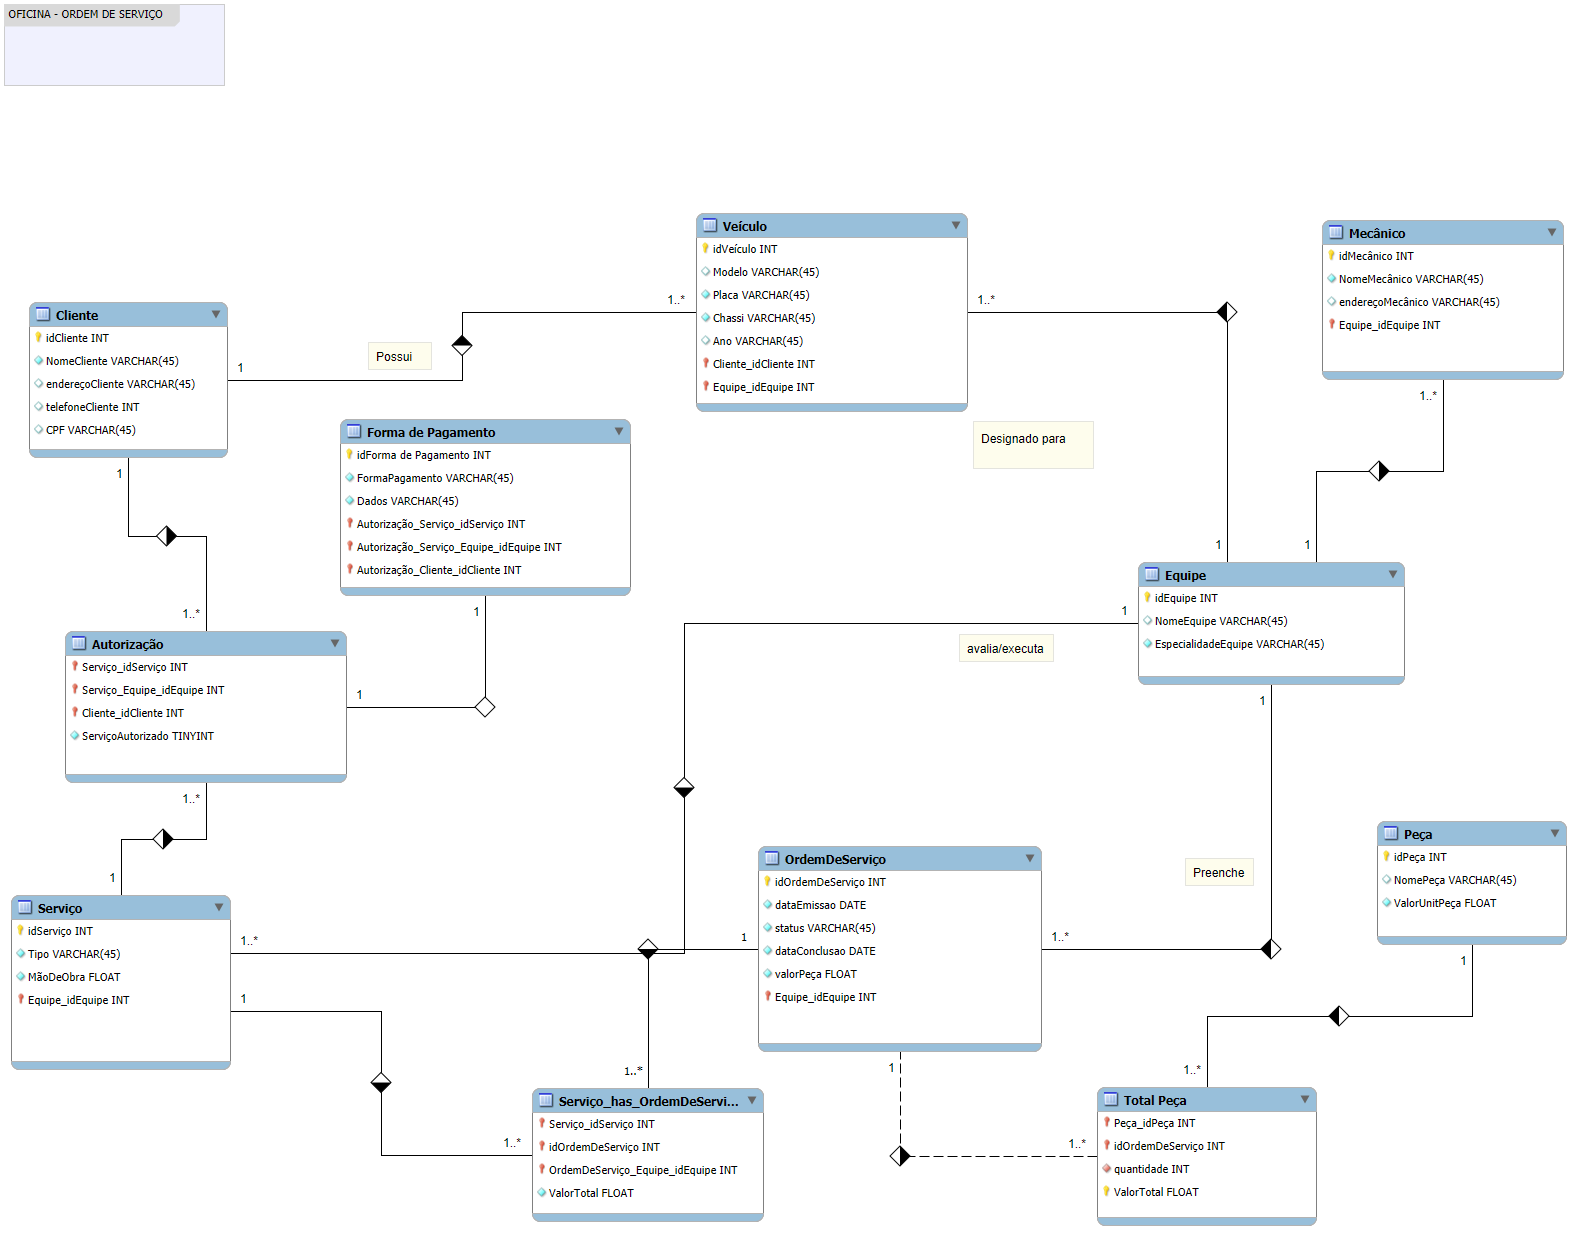
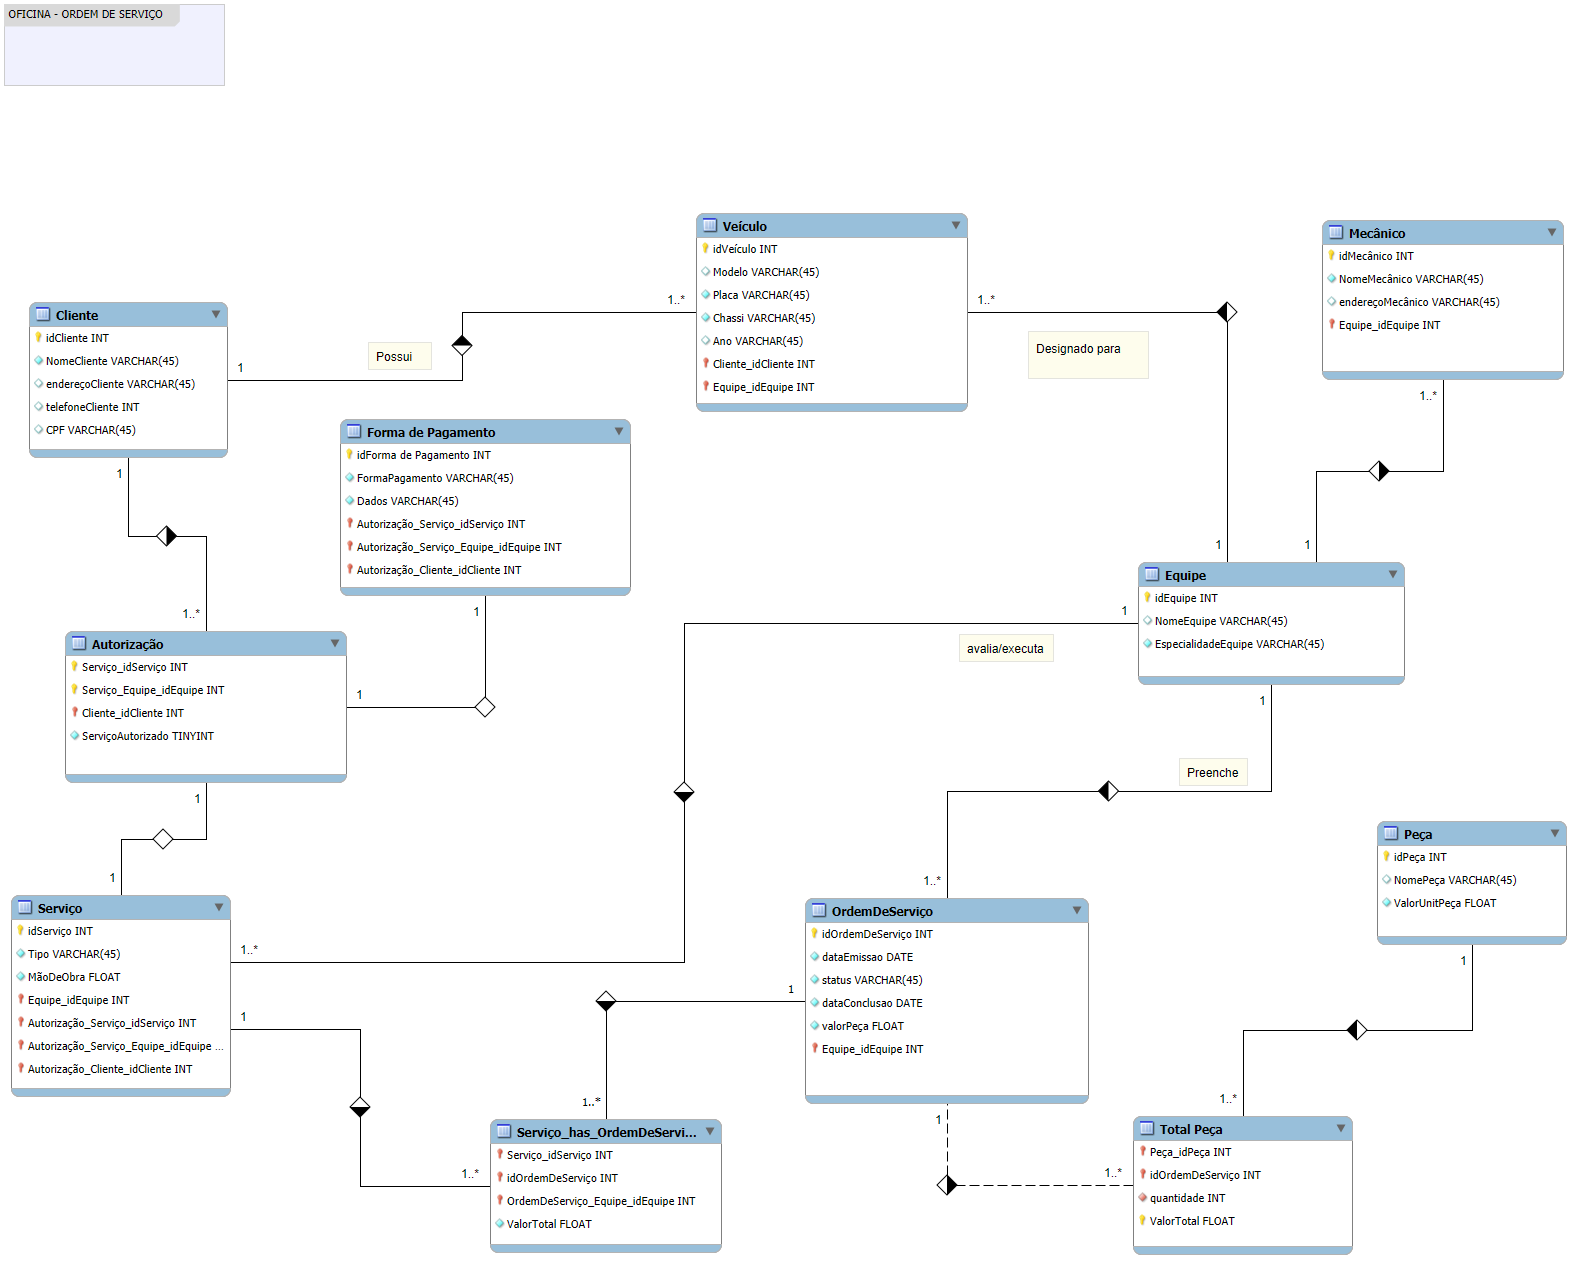
Sobrescrevendo o readme e o arquivo PNG com novos dados

diff --git a/construcao_BD/desafio_BD/readme.md b/construcao_BD/desafio_BD/readme.md
@@ -1,0 +1,12 @@
+### Construção e Refinamento de um Projeto Banco de Dados - ORDEM DE SERVIÇO (OFICINA)
+
+#### De acordo com as instruções da aula foram criadas algumas entidades e outras foram criadas para o desafio e refinamento:
+1. Cliente: Possui um ou mais veículo e por isso a cardinalidade 1:N com a entidade veículo. Também tem relação com autorização, pois precisa autorizar um ou mais serviços (1:N)
+3. Autorização: Relacionado a cliente, serviço (cardinalidade 1:1) e forma de pagamento (1:1), pois autorizado o serviço e concluído deve haver pagamento.
+4. Forma de pagamento: Tipo de pagamento, dados. RElação com autorização.
+5. Veículo: 1 ou mais veículo é designado para uma equipe (1:N)
+6. Equipe: Preenche uma ou mais ordem de serviço (1:N), avalia/executa um ou mais serviços (1:N)
+7. Serviço: Relacionamento com autorização (1:1), Equipe e também tem relacionamento N;M com ordem de serviço onde traz o valor total após ordem de serviço executada.
+8. Ordem de Serviço: Tem relação N:M com fornecedor, pois vários produtos são disponibilizados para vários fornecedores diferentes. Também tem relação de N:M com pedido, onde foi criada subclasse relação produto/pedido e aqui inserido status compra, uma vez que a entidade herdou id_produto e id_pedido.
+9. Peça: Traz valor unitário e tem relação de N:M com ordem de serviço trazendo o valor total com quantidade de peças. 
+10. Mecânico: Relação 1:N com equipe. Uma equipe pode ter vários mecânicos.
